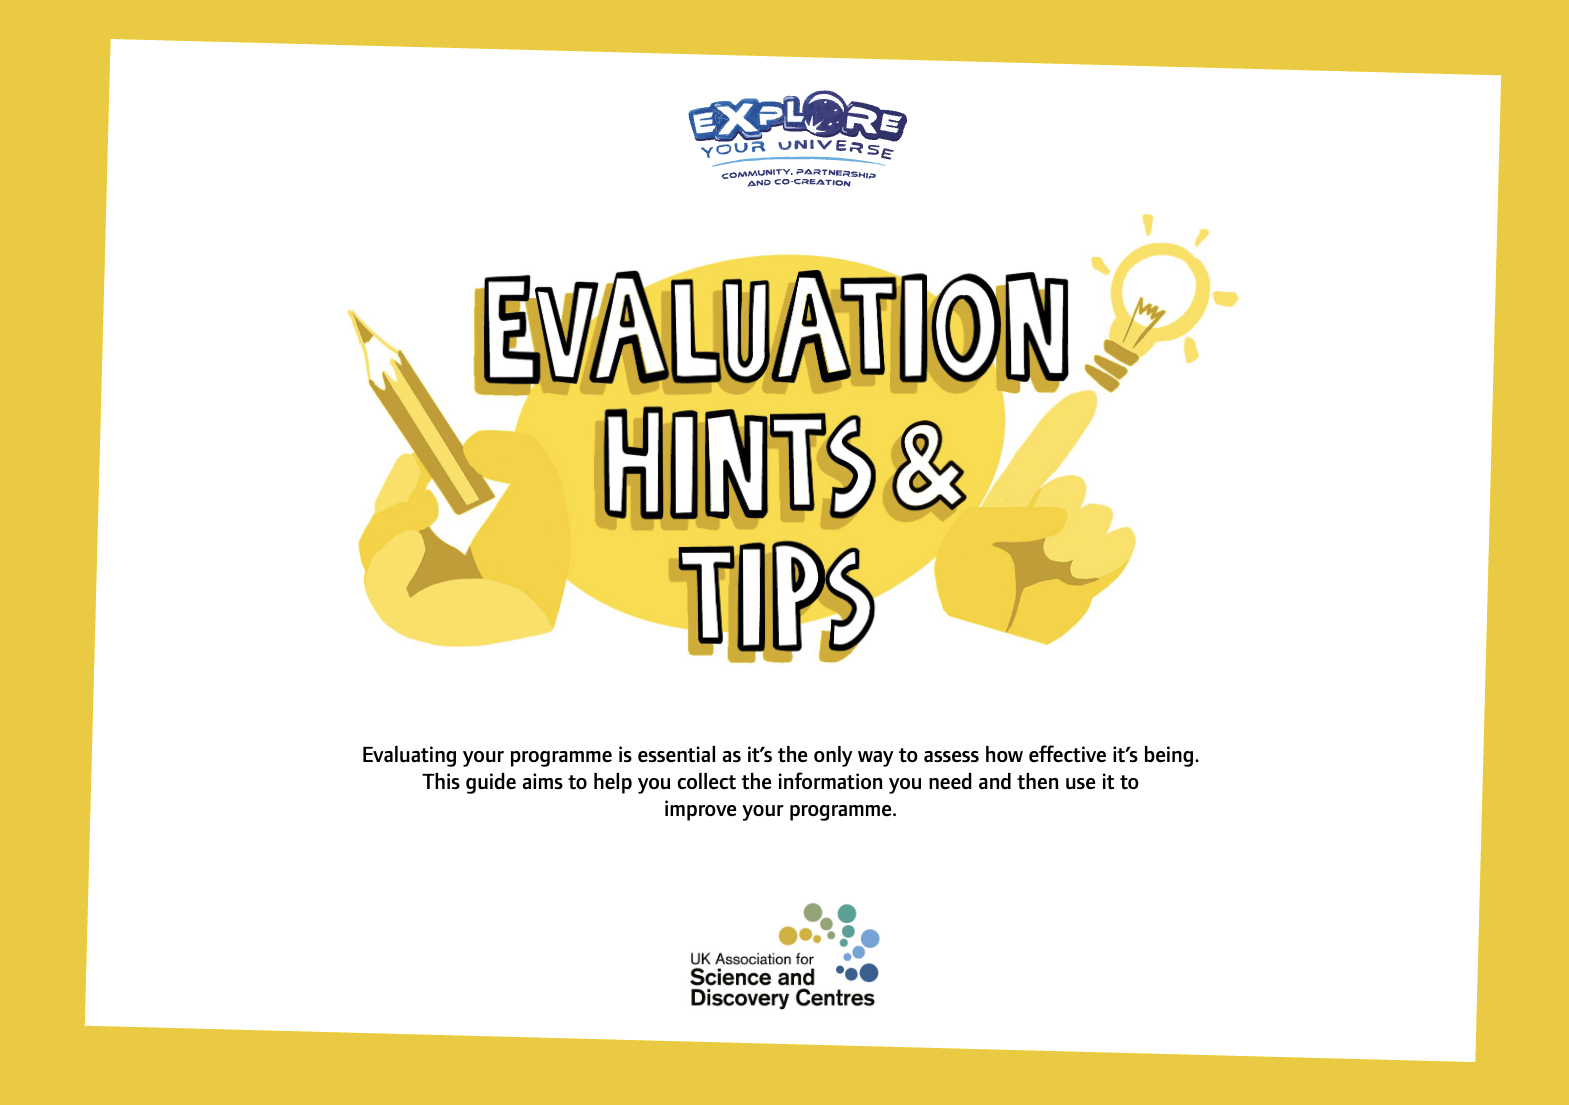
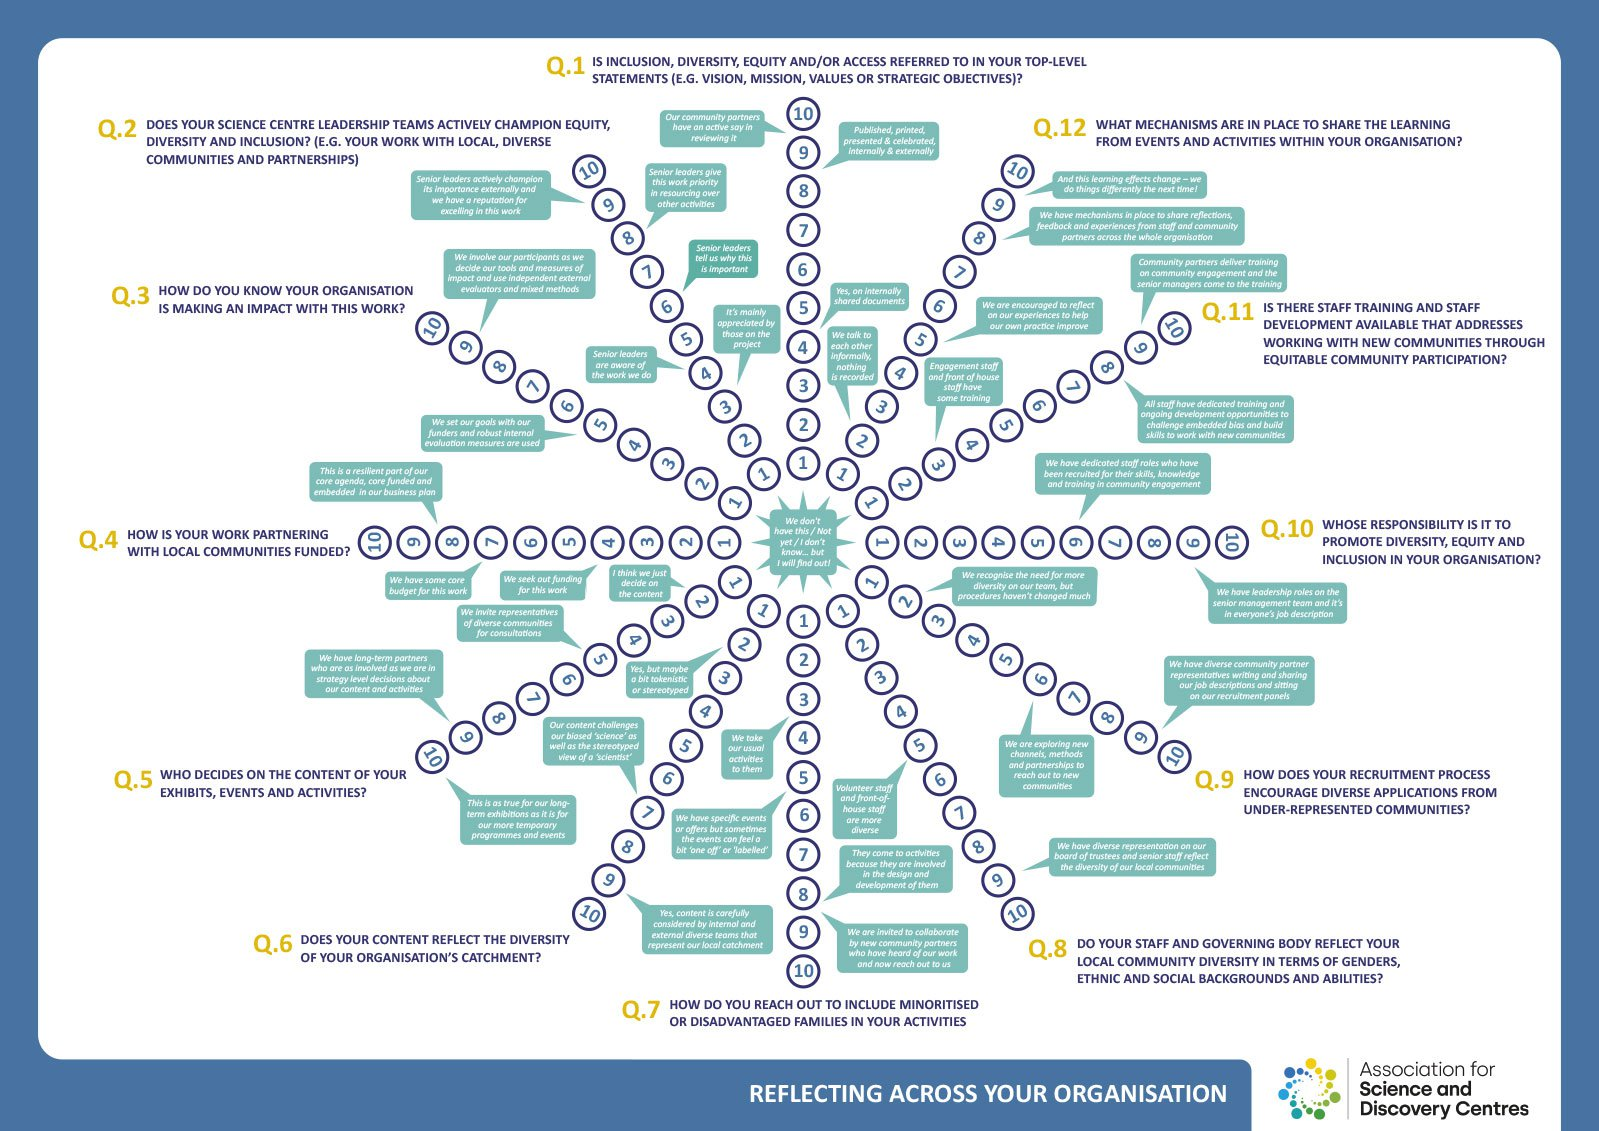
GITBOOK-42: No subject

diff --git a/docs/SUMMARY.md b/docs/SUMMARY.md
@@ -16,10 +16,12 @@
     * [LNOB Workshop Slide Deck](dialogue/how-can-we-engage-with-the-lnob-pledge/lnob-workshop-slide-deck.md)
     * [LNOB Workshop Structure](dialogue/how-can-we-engage-with-the-lnob-pledge/lnob-workshop-structure.md)
   * [How can we engage with the concepts of Equity, Diversity, and Inclusion (EDI)?](dialogue/how-can-we-engage-with-the-concepts-of-equity-diversity-and-inclusion-edi/README.md)
-    * [...by preparing for an internal dialogue?](dialogue/how-can-we-engage-with-the-concepts-of-equity-diversity-and-inclusion-edi/...by-preparing-for-an-internal-dialogue.md)
-    * [...by learning more from local groups in the community?](dialogue/how-can-we-engage-with-the-concepts-of-equity-diversity-and-inclusion-edi/...by-learning-more-from-local-groups-in-the-community.md)
-    * [The Inclusion Wheel](dialogue/how-can-we-engage-with-the-concepts-of-equity-diversity-and-inclusion-edi/the-inclusion-wheel.md)
-    * [The Equity Compass](dialogue/how-can-we-engage-with-the-concepts-of-equity-diversity-and-inclusion-edi/the-equity-compass.md)
+    * [...by preparing for an internal dialogue?](dialogue/how-can-we-engage-with-the-concepts-of-equity-diversity-and-inclusion-edi/...by-preparing-for-an-internal-dialogue/README.md)
+      * [Diversci Spark — Self-Evaluation Workshop](dialogue/how-can-we-engage-with-the-concepts-of-equity-diversity-and-inclusion-edi/...by-preparing-for-an-internal-dialogue/diversci-spark-self-evaluation-workshop.md)
+      * [The Equity Compass](dialogue/how-can-we-engage-with-the-concepts-of-equity-diversity-and-inclusion-edi/...by-preparing-for-an-internal-dialogue/the-equity-compass.md)
+      * [The Inclusion Wheel](dialogue/how-can-we-engage-with-the-concepts-of-equity-diversity-and-inclusion-edi/...by-preparing-for-an-internal-dialogue/the-inclusion-wheel.md)
+    * [...by learning more from local groups in the community?](dialogue/how-can-we-engage-with-the-concepts-of-equity-diversity-and-inclusion-edi/...by-learning-more-from-local-groups-in-the-community/README.md)
+      * [NESTA People and Connections Map](dialogue/how-can-we-engage-with-the-concepts-of-equity-diversity-and-inclusion-edi/...by-learning-more-from-local-groups-in-the-community/nesta-people-and-connections-map.md)
 * [INSIGHT GATHERING](insight-gathering/README.md)
   * [How can we gain insights into LNOB or JEDI in our own context?](insight-gathering/how-can-we-gain-insights-into-lnob-or-jedi-in-our-own-context/README.md)
     * [...by considering lived experience in the living environment](insight-gathering/how-can-we-gain-insights-into-lnob-or-jedi-in-our-own-context/...by-considering-lived-experience-in-the-living-environment.md)

diff --git a/docs/dialogue/how-can-we-engage-with-the-concepts-of-equity-diversity-and-inclusion-edi/...by-learning-more-from-local-groups-in-the-community/nesta-people-and-connections-map.md b/docs/dialogue/how-can-we-engage-with-the-concepts-of-equity-diversity-and-inclusion-edi/...by-learning-more-from-local-groups-in-the-community/nesta-people-and-connections-map.md
@@ -1,0 +1,20 @@
+---
+icon: screwdriver-wrench
+---
+
+# NESTA People and Connections Map
+
+The People & Connections Map is a quick and visual tool for mapping exactly who you are trying to reach and how. Developed by Nesta as part of the Development Impact and You (DIY) toolkit for social innovation, it provides an overview of all the different individuals and organisations involved in your work, and allows you to develop a clearer picture of how they relate both to your work and to each other. This might include the communities you work directly with, funding bodies, peer organisations, and local or international support networks.
+
+<figure><img src="../../../.gitbook/assets/image (7).png" alt=""><figcaption></figcaption></figure>
+
+The tool uses concentric circles to indicate proximity to the target audience — with those closest to the core representing the most local relationships, and those towards the outside representing more distant ones. People and organisations can also be clustered into sections representing specific networks, sectors, or interest areas. Once completed as a team, the map provides a useful starting point for discussing which relationships are key and which may need more attention — making it particularly valuable in the planning stages of outreach and engagement activities, or when mapping who may currently be absent from a Citizen Observatory's network.
+
+SOURCE: Nesta / Development Impact and You (DIY) Toolkit (2014, updated 2024). _People & Connections Map_. Based on the Stakeholder Mapping tool by Namahn and Yellow Window Service Design, Design Flanders (2012). [https://diy-toolkit.org/tools/people-connections-map/](https://diy-toolkit.org/tools/people-connections-map/)
+
+**People & Connections Map — Download and Use**
+
+* [Download worksheet (A4, PDF)](https://diy-toolkit.org/media/People-and-Connections-map-Size-A4.pdf)
+* [Download worksheet (A3, PDF)](https://diy-toolkit.org/media/People-and-Connections-map-Size-A3.pdf)
+* [Open in Miro (digital version)](https://miro.com/miroverse/people-and-connections-map/)
+* [People & Connections Map tool page](https://diy-toolkit.org/tools/people-connections-map/)

diff --git a/docs/dialogue/how-can-we-engage-with-the-concepts-of-equity-diversity-and-inclusion-edi/...by-preparing-for-an-internal-dialogue/diversci-spark-self-evaluation-workshop.md b/docs/dialogue/how-can-we-engage-with-the-concepts-of-equity-diversity-and-inclusion-edi/...by-preparing-for-an-internal-dialogue/diversci-spark-self-evaluation-workshop.md
@@ -1,0 +1,19 @@
+---
+icon: screwdriver-wrench
+---
+
+# Diversci Spark — Self-Evaluation Workshop
+
+The Diversci Spark tool is a facilitated workshop for collective reflection and internal self-evaluation on equity, diversity and inclusion. Developed by Diversci — an international collective of science engagement professionals — it has been used over more than five years to help organisations have structured, yet honest conversations about EDI and to measure their institutional knowledge and practices regarding social justice. Spark is not simply a diagnostic exercise: it is designed as a means of committing to and implementing change.
+
+<figure><img src="../../../.gitbook/assets/image.png" alt=""><figcaption></figcaption></figure>
+
+The workshop guides teams through Diversci's five transversal pillars — **Access, Content, Partners, Staff, and Strategy** — asking participants first to self-evaluate their organisation's current level of awareness and practice, and then to plan a roadmap for change using a Stop / Start / Continue exercise. It is suitable for groups of up to 25 people and can be run online or in person in approximately two hours.
+
+SOURCE: Diversci (n.d.). _Spark: Self-Evaluation Workshop_. [https://www.diversci.eu/evaluation-workshop/](https://www.diversci.eu/evaluation-workshop/)
+
+**Diversci Spark Workshop — Download Materials**
+
+* [Download online workshop package (PDF)](https://www.diversci.eu/wp-content/uploads/2022/07/Diversci_Spark_Tool_Online-Instructions.pdf)
+* [Download on-site workshop package (ZIP, printable cards and boards)](https://www.diversci.eu/wp-content/uploads/2022/07/Diversci_Spark_Tool_Onsite.zip)
+* [Diversci Spark Workshop page](https://www.diversci.eu/evaluation-workshop/)

diff --git a/docs/readme/about-citiobs.md b/docs/readme/about-citiobs.md
@@ -18,4 +18,4 @@ The aim of all of these tools is to:
 * Provide materials and guidance for co-creating inclusive local actions for sustainability
 * Provide guidance and  tools to help aggregate standardize and validate data of the Citizen Observatories such that it can be easily accessed, referenced and reliably used for decision-making and policy development towards the objectives of the European Green Deal
 
-<figure><img src="../.gitbook/assets/image (1) (1).png" alt=""><figcaption></figcaption></figure>
+<figure><img src="../.gitbook/assets/image (1) (1) (1).png" alt=""><figcaption></figcaption></figure>

diff --git a/docs/dialogue/how-can-we-engage-with-the-concepts-of-equity-diversity-and-inclusion-edi/...by-preparing-for-an-internal-dialogue/the-inclusion-wheel.md b/docs/dialogue/how-can-we-engage-with-the-concepts-of-equity-diversity-and-inclusion-edi/...by-preparing-for-an-internal-dialogue/the-inclusion-wheel.md
@@ -10,7 +10,7 @@ This tool addresses elements of inclusion across different areas of an organisat
 
 SOURCE: [https://inclusion.sciencecentres.org.uk/evaluating-inclusion/practical-creative-tools/inclusionreflection-wheel/](https://inclusion.sciencecentres.org.uk/evaluating-inclusion/practical-creative-tools/inclusionreflection-wheel/)
 
-<figure><img src="../../.gitbook/assets/image.png" alt=""><figcaption></figcaption></figure>
+<figure><img src="../../../.gitbook/assets/image (1).png" alt=""><figcaption></figcaption></figure>
 
 **The Inclusion Wheel for Organisational Reflection**
 

diff --git a/docs/evaluation/how-can-we-evaluate-our-efforts-to-be-more-diverse-and-inclusive/evaluation-hints-and-tips.md b/docs/evaluation/how-can-we-evaluate-our-efforts-to-be-more-diverse-and-inclusive/evaluation-hints-and-tips.md
@@ -19,7 +19,7 @@ The Association for Science and Discovery Centres in the UK advises its members 
 
 SOURCE: [https://inclusion.sciencecentres.org.uk/evaluating-inclusion/starting-out/](https://inclusion.sciencecentres.org.uk/evaluating-inclusion/starting-out/)
 
-<figure><img src="../../.gitbook/assets/image (1).png" alt=""><figcaption></figcaption></figure>
+<figure><img src="../../.gitbook/assets/image (1) (1).png" alt=""><figcaption></figcaption></figure>
 
 
 

diff --git a/docs/dialogue/how-can-we-engage-with-the-concepts-of-equity-diversity-and-inclusion-edi/...by-preparing-for-an-internal-dialogue/the-equity-compass.md b/docs/dialogue/how-can-we-engage-with-the-concepts-of-equity-diversity-and-inclusion-edi/...by-preparing-for-an-internal-dialogue/the-equity-compass.md
@@ -10,7 +10,7 @@ The Compass is made up of eight different dimensions describing a different aspe
 
 SOURCE: [https://yestem.org/tools/the-equity-compass/](https://yestem.org/tools/the-equity-compass/)
 
-<figure><img src="../../.gitbook/assets/image (3).png" alt=""><figcaption></figcaption></figure>
+<figure><img src="../../../.gitbook/assets/image (3).png" alt=""><figcaption></figcaption></figure>
 
 **The Equity Compass resources include:**
 
